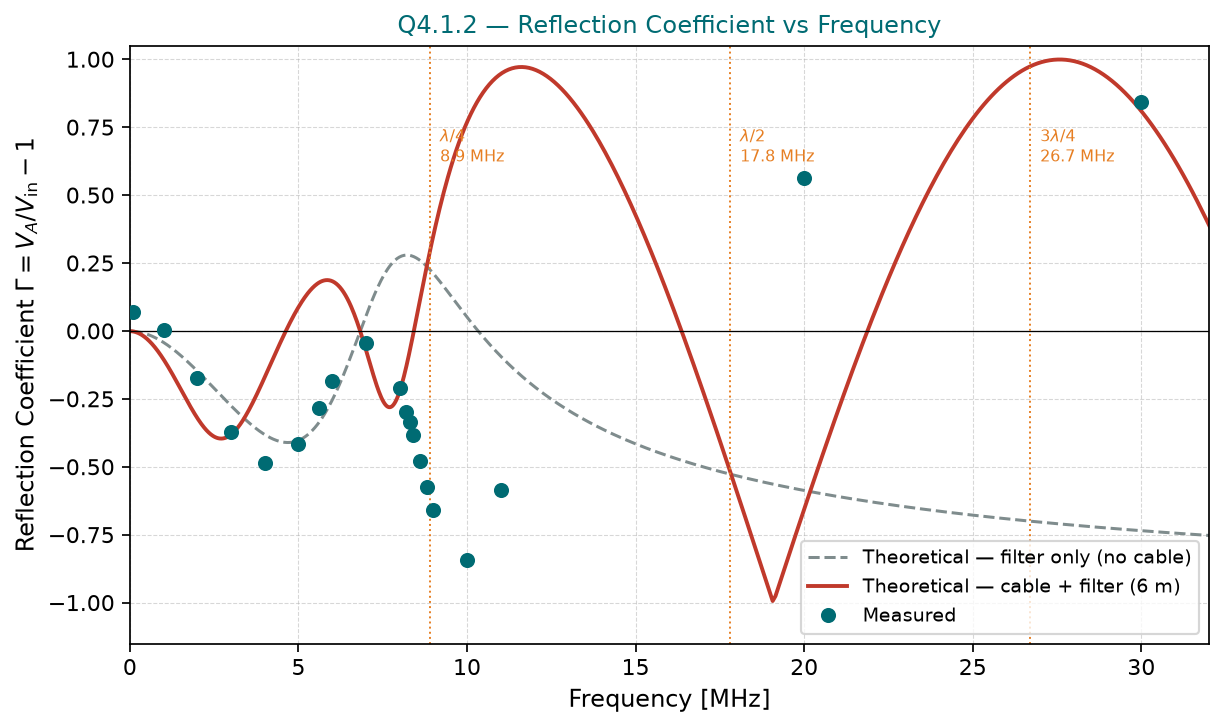
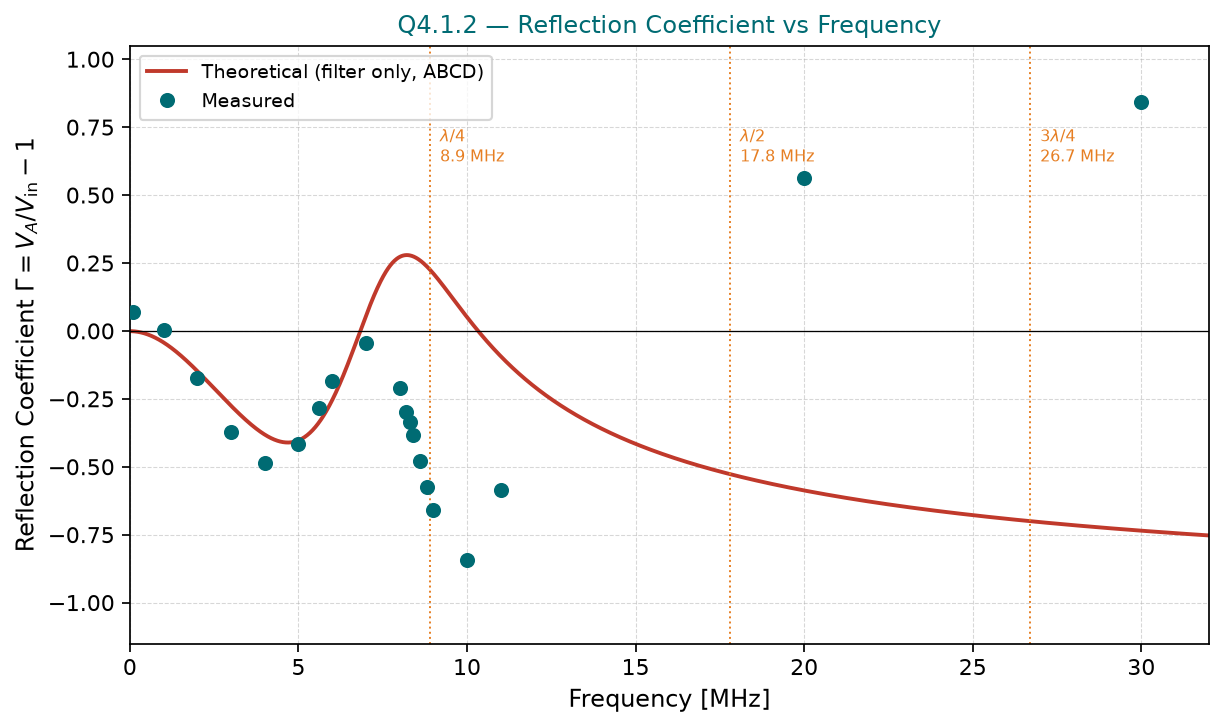
remove cable+filter theory from Γ plot, keep filter-only + measured

diff --git a/labs/LAB-6/exp#6_post_shailivshits_208632216_danmasad_206505307.md b/labs/LAB-6/exp#6_post_shailivshits_208632216_danmasad_206505307.md
@@ -413,7 +413,7 @@ $$\Gamma = \frac{V_A}{V_\text{in}} - 1 = \frac{V_A}{3.2} - 1$$
 ![ ](assets/q4_refl_plot.png)
 \nopagebreak[4]
 
-\figcap{Figure 21: Q4.1.2 - reflection coefficient $\Gamma$ vs. frequency (0.1--30 MHz). Grey dashed: filter-only theory (monotonically negative, no cable effects). Red: cable + filter theory including 6 m standing-wave resonances. Teal circles: measured data. The cable resonances at $f_{\lambda/4}=8.9\,\text{MHz}$, $f_{\lambda/2}=17.8\,\text{MHz}$, and $3\lambda/4=26.7\,\text{MHz}$ drive the sign oscillations seen in both the theoretical and measured curves.}
+\figcap{Figure 21: Q4.1.2 - reflection coefficient $\Gamma$ vs. frequency (0.1--30 MHz). Red curve: filter-only ABCD theory (monotonically negative, no cable effects). Teal circles: measured data. The sign oscillations in the measured curve are caused by cable standing-wave resonances at $f_{\lambda/4}=8.9\,\text{MHz}$, $f_{\lambda/2}=17.8\,\text{MHz}$, and $3\lambda/4=26.7\,\text{MHz}$ — not captured by the filter-only theory.}
 
 **Explanation of the $\Gamma$ sign flip near 10 MHz and sign reversal at 20 MHz:**
 